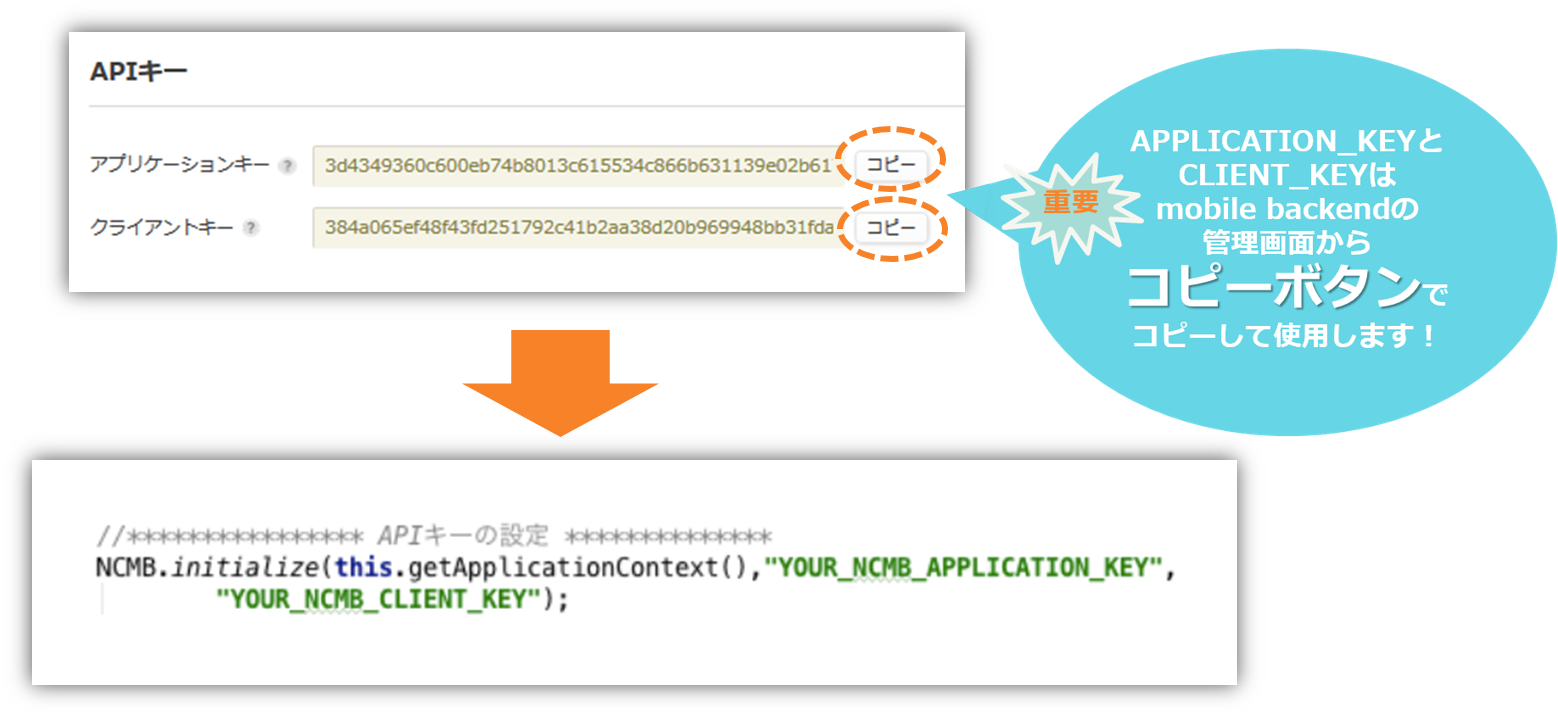
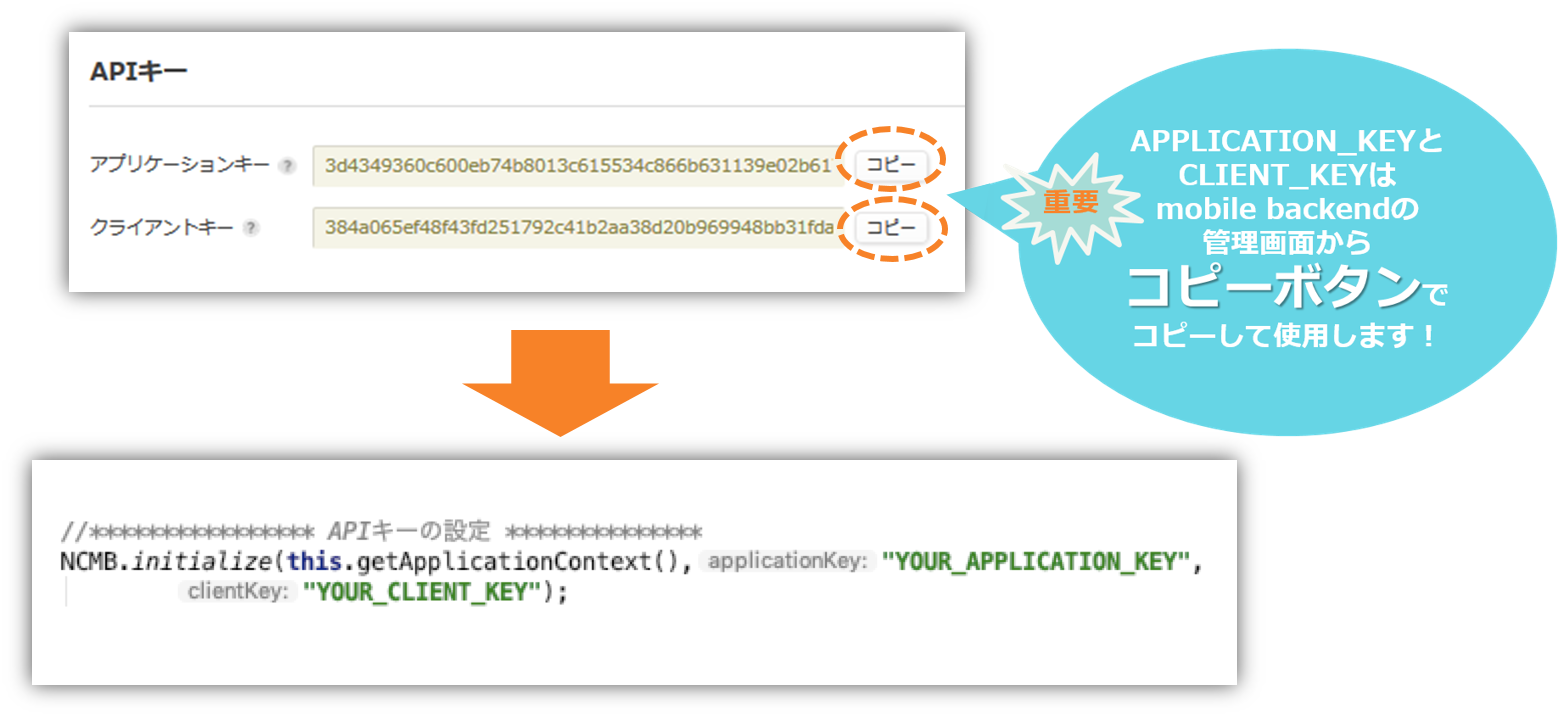
Update text and image

Changed region(s): [[0.0308, 0.7057, 0.7702, 0.8591]]

diff --git a/app/src/main/java/mbaas/com/nifcloud/androidimageviewapp/MainActivity.java b/app/src/main/java/mbaas/com/nifcloud/androidimageviewapp/MainActivity.java
@@ -27,8 +27,8 @@ public class MainActivity extends AppCompatActivity {
         super.onCreate(savedInstanceState);
 
         //**************** APIキーの設定 **************
-        NCMB.initialize(this.getApplicationContext(), "YOUR_NCMB_APPLICATION_KEY",
-                "YOUR_NCMB_CLIENT_KEY");
+        NCMB.initialize(this.getApplicationContext(), "YOUR_APPLICATION_KEY",
+                "YOUR_CLIENT_KEY");
 
         setContentView(R.layout.activity_main);
 
